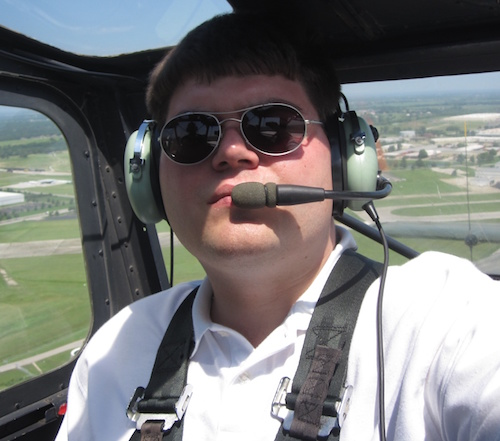
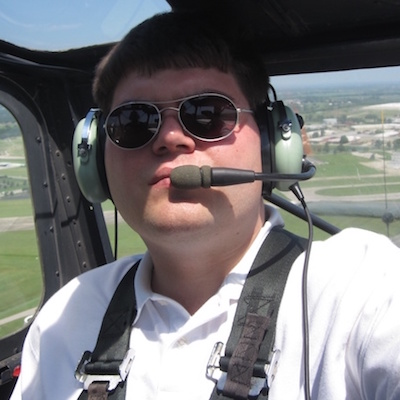
:hammer: Update/resize organizer photos

diff --git a/_organizers/josue-balandrano-coronel.md b/_organizers/josue-balandrano-coronel.md
@@ -3,7 +3,7 @@ layout: base
 
 name: "Josue Balandrano Coronel"
 role: "Visas Coordinator"
-photo_url: "/static/img/social/avatar-main.png"
+photo_url: "/static/img/organizers/josue.png"
 github: "xirdneh"
 twitter: "eusoj_xirdneh"
 website: "https://rmcomplexity.com"

diff --git a/_organizers/trey-hunner.md b/_organizers/trey-hunner.md
@@ -3,7 +3,7 @@ layout: base
 
 name: "Trey Hunner"
 role: "Organizer"
-photo_url: "/static/img/social/avatar-main.png"
+photo_url: "/static/img/organizers/trey.jpg"
 github: ""
 twitter: ""
 website: ""
